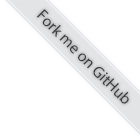
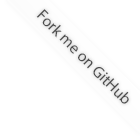
Refine github fork me label.

Changed region(s): [[0.1143, 0.0, 1.0, 0.9429]]

diff --git a/css/demo.css b/css/demo.css
@@ -68,7 +68,7 @@ table {
 .p-index .container .infoviz { margin: 0px 10px; width: 850px; height: 350px; }
 .p-index footer { height: 28px; margin: 0 auto 10px auto; width: 870px; background: #FDFDFD; border-bottom-left-radius: 10px; border-bottom-right-radius: 10px; border-top: 1px solid #EEE; }
 .p-index footer p { color: #999; text-align: center; font-size: 0.6em; line-height: 30px; }
-.p-index a.fork { position: fixed; top: 0; right: 0; border: 0; width: 140px; height: 140px; display: block; background: url('../images/forkme.png') center no-repeat; background-image: -webkit-image-set(url('../images/forkme.png') 1x, url('../images/forkme@2x.png') 2x); }
+.p-index a.fork { position: absolute; top: 0; right: 0; border: 0; width: 140px; height: 140px; display: block; background: url('../images/forkme.png') center no-repeat; background-image: -webkit-image-set(url('../images/forkme.png') 1x, url('../images/forkme@2x.png') 2x); }
 
 .p-index .container .infoviz.i-piechart1 { width: 340px; height: 280px; float: left; }
 .p-index .container .infoviz.i-piechart2 { width: 490px; height: 280px; float: left; }
